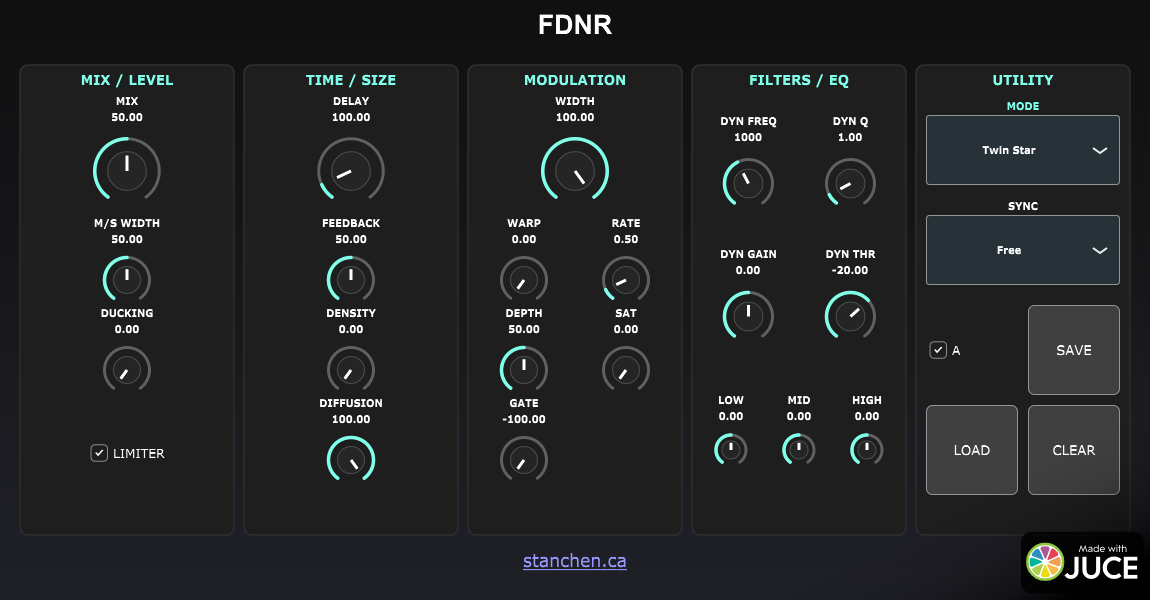
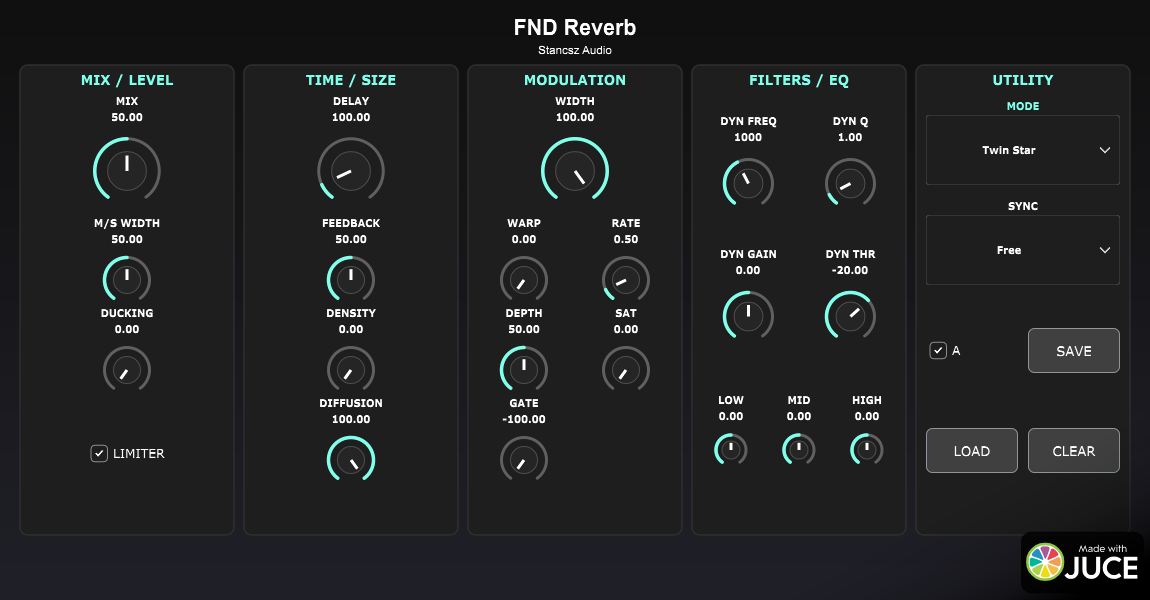
feat: Implement plugin editor with UI controls and update build configuration.

diff --git a/Source/PluginEditor.cpp b/Source/PluginEditor.cpp
@@ -147,7 +147,7 @@ void FDNRAudioProcessorEditor::paint(juce::Graphics& g)
     g.drawText("FND Reverb", titleArea.removeFromTop(25), juce::Justification::centred, false);
     
     g.setFont(juce::Font("Futura", 13.0f, juce::Font::plain));
-    g.drawText("Nap-Tech", titleArea, juce::Justification::centred, false);
+    g.drawText("Stancsz Audio", titleArea, juce::Justification::centred, false);
 
     auto area = getLocalBounds().reduced(15);
     area.removeFromTop(50);
